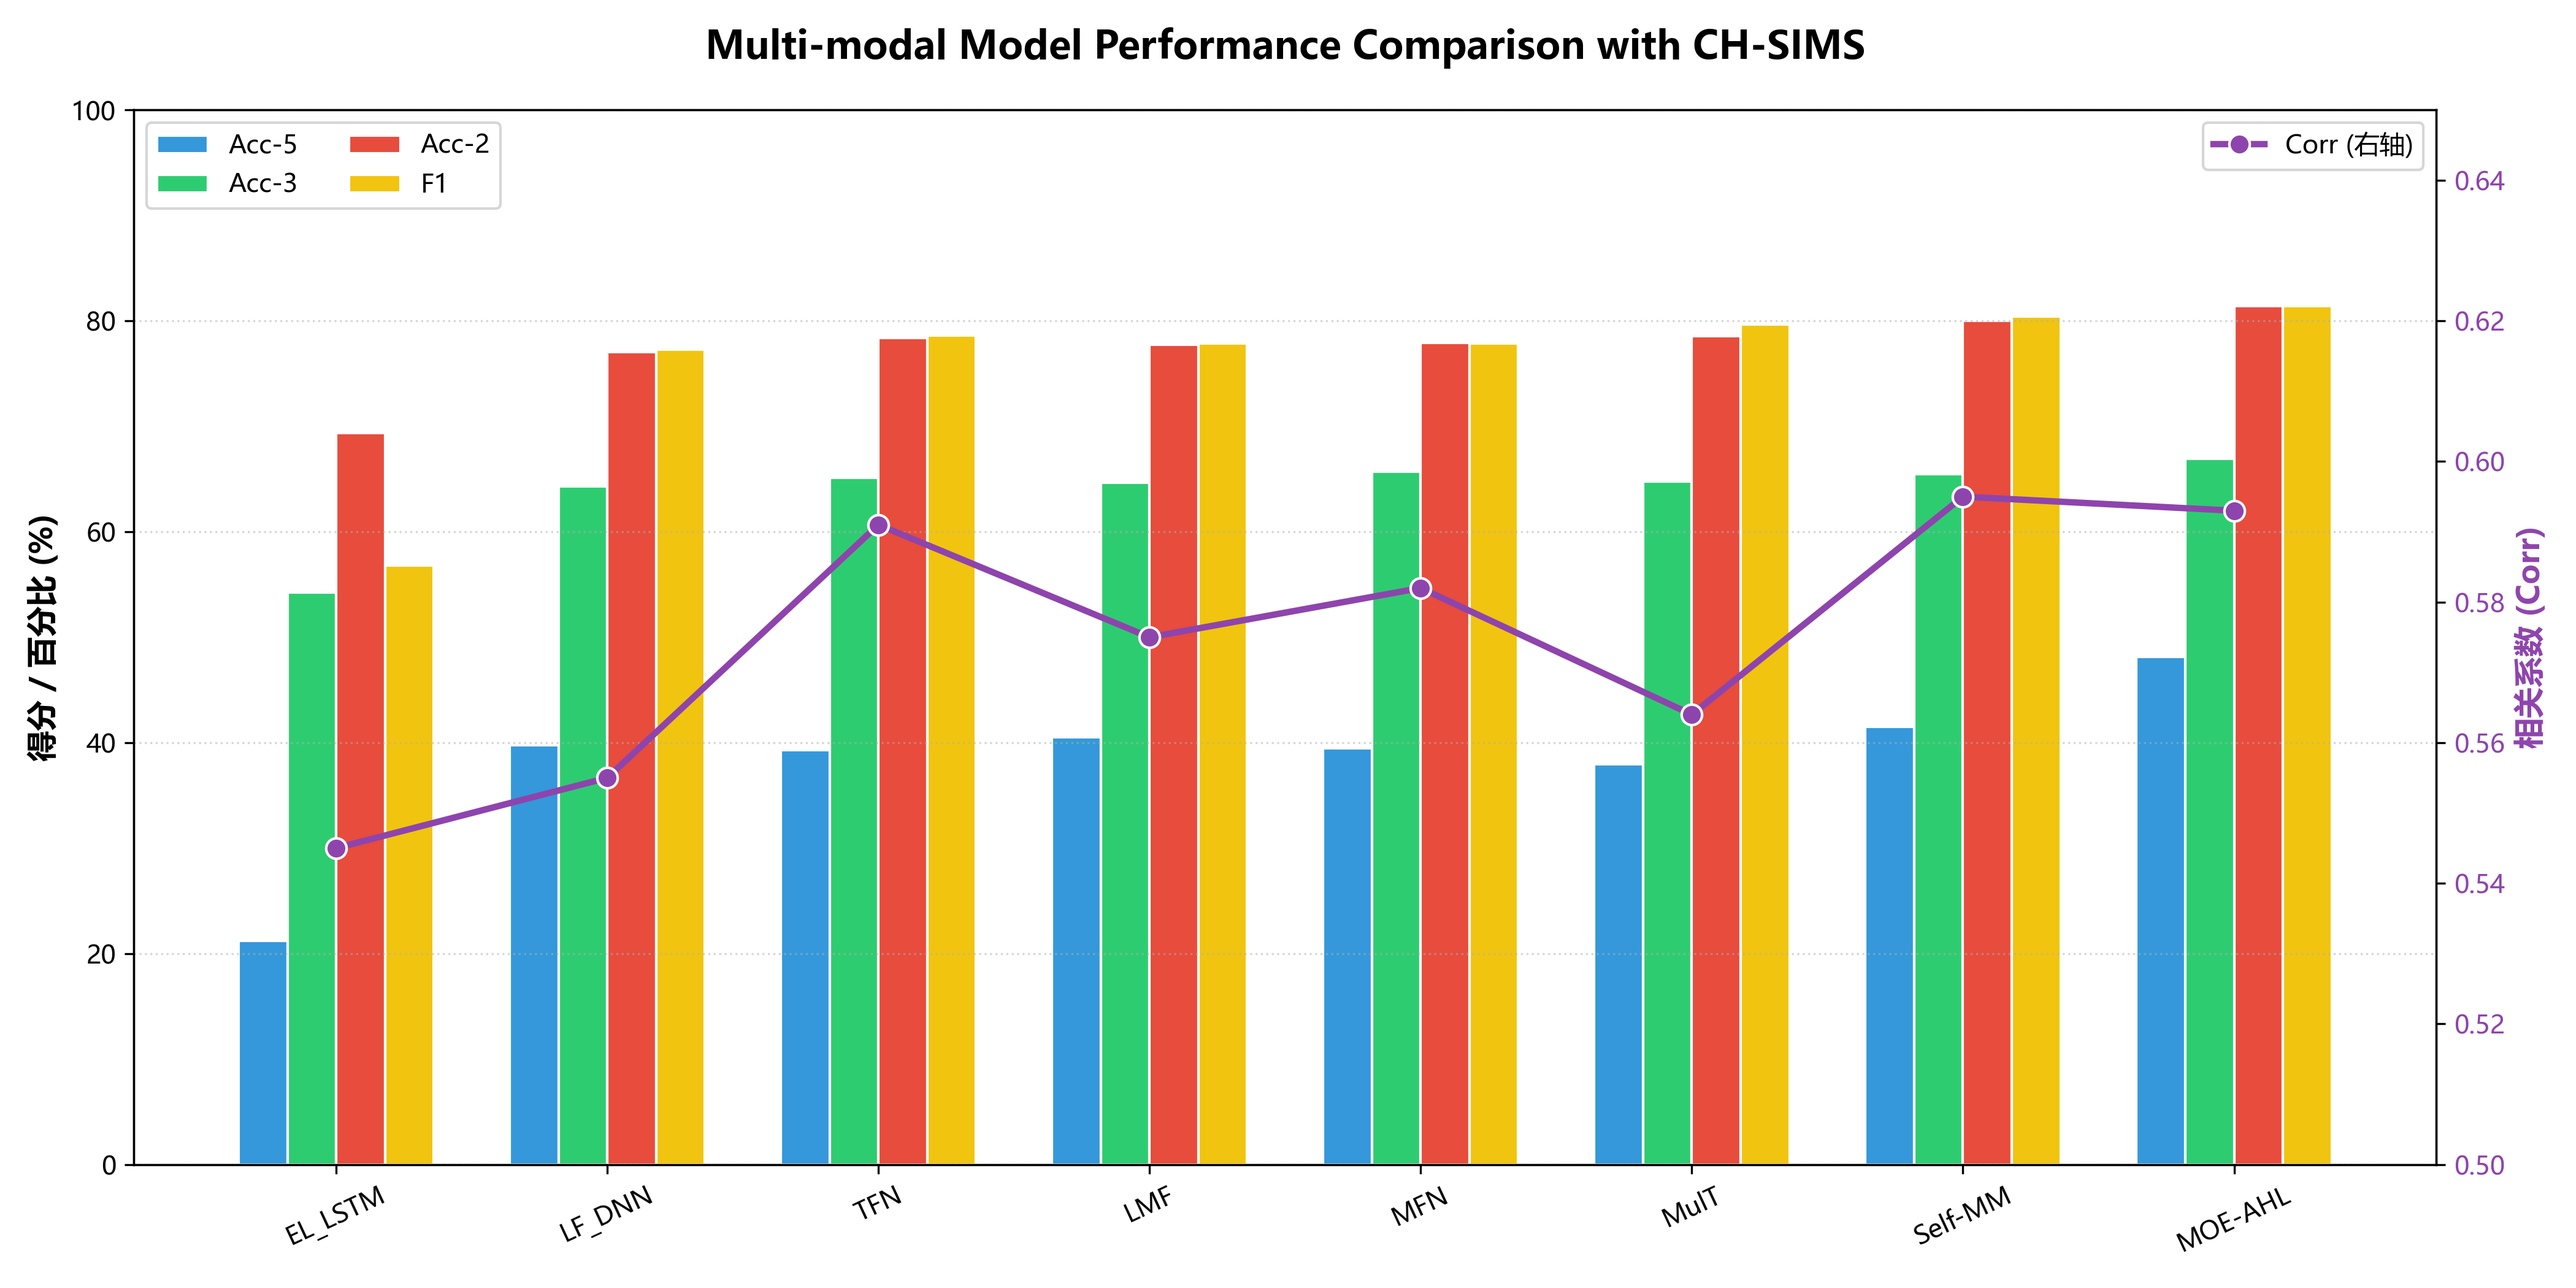
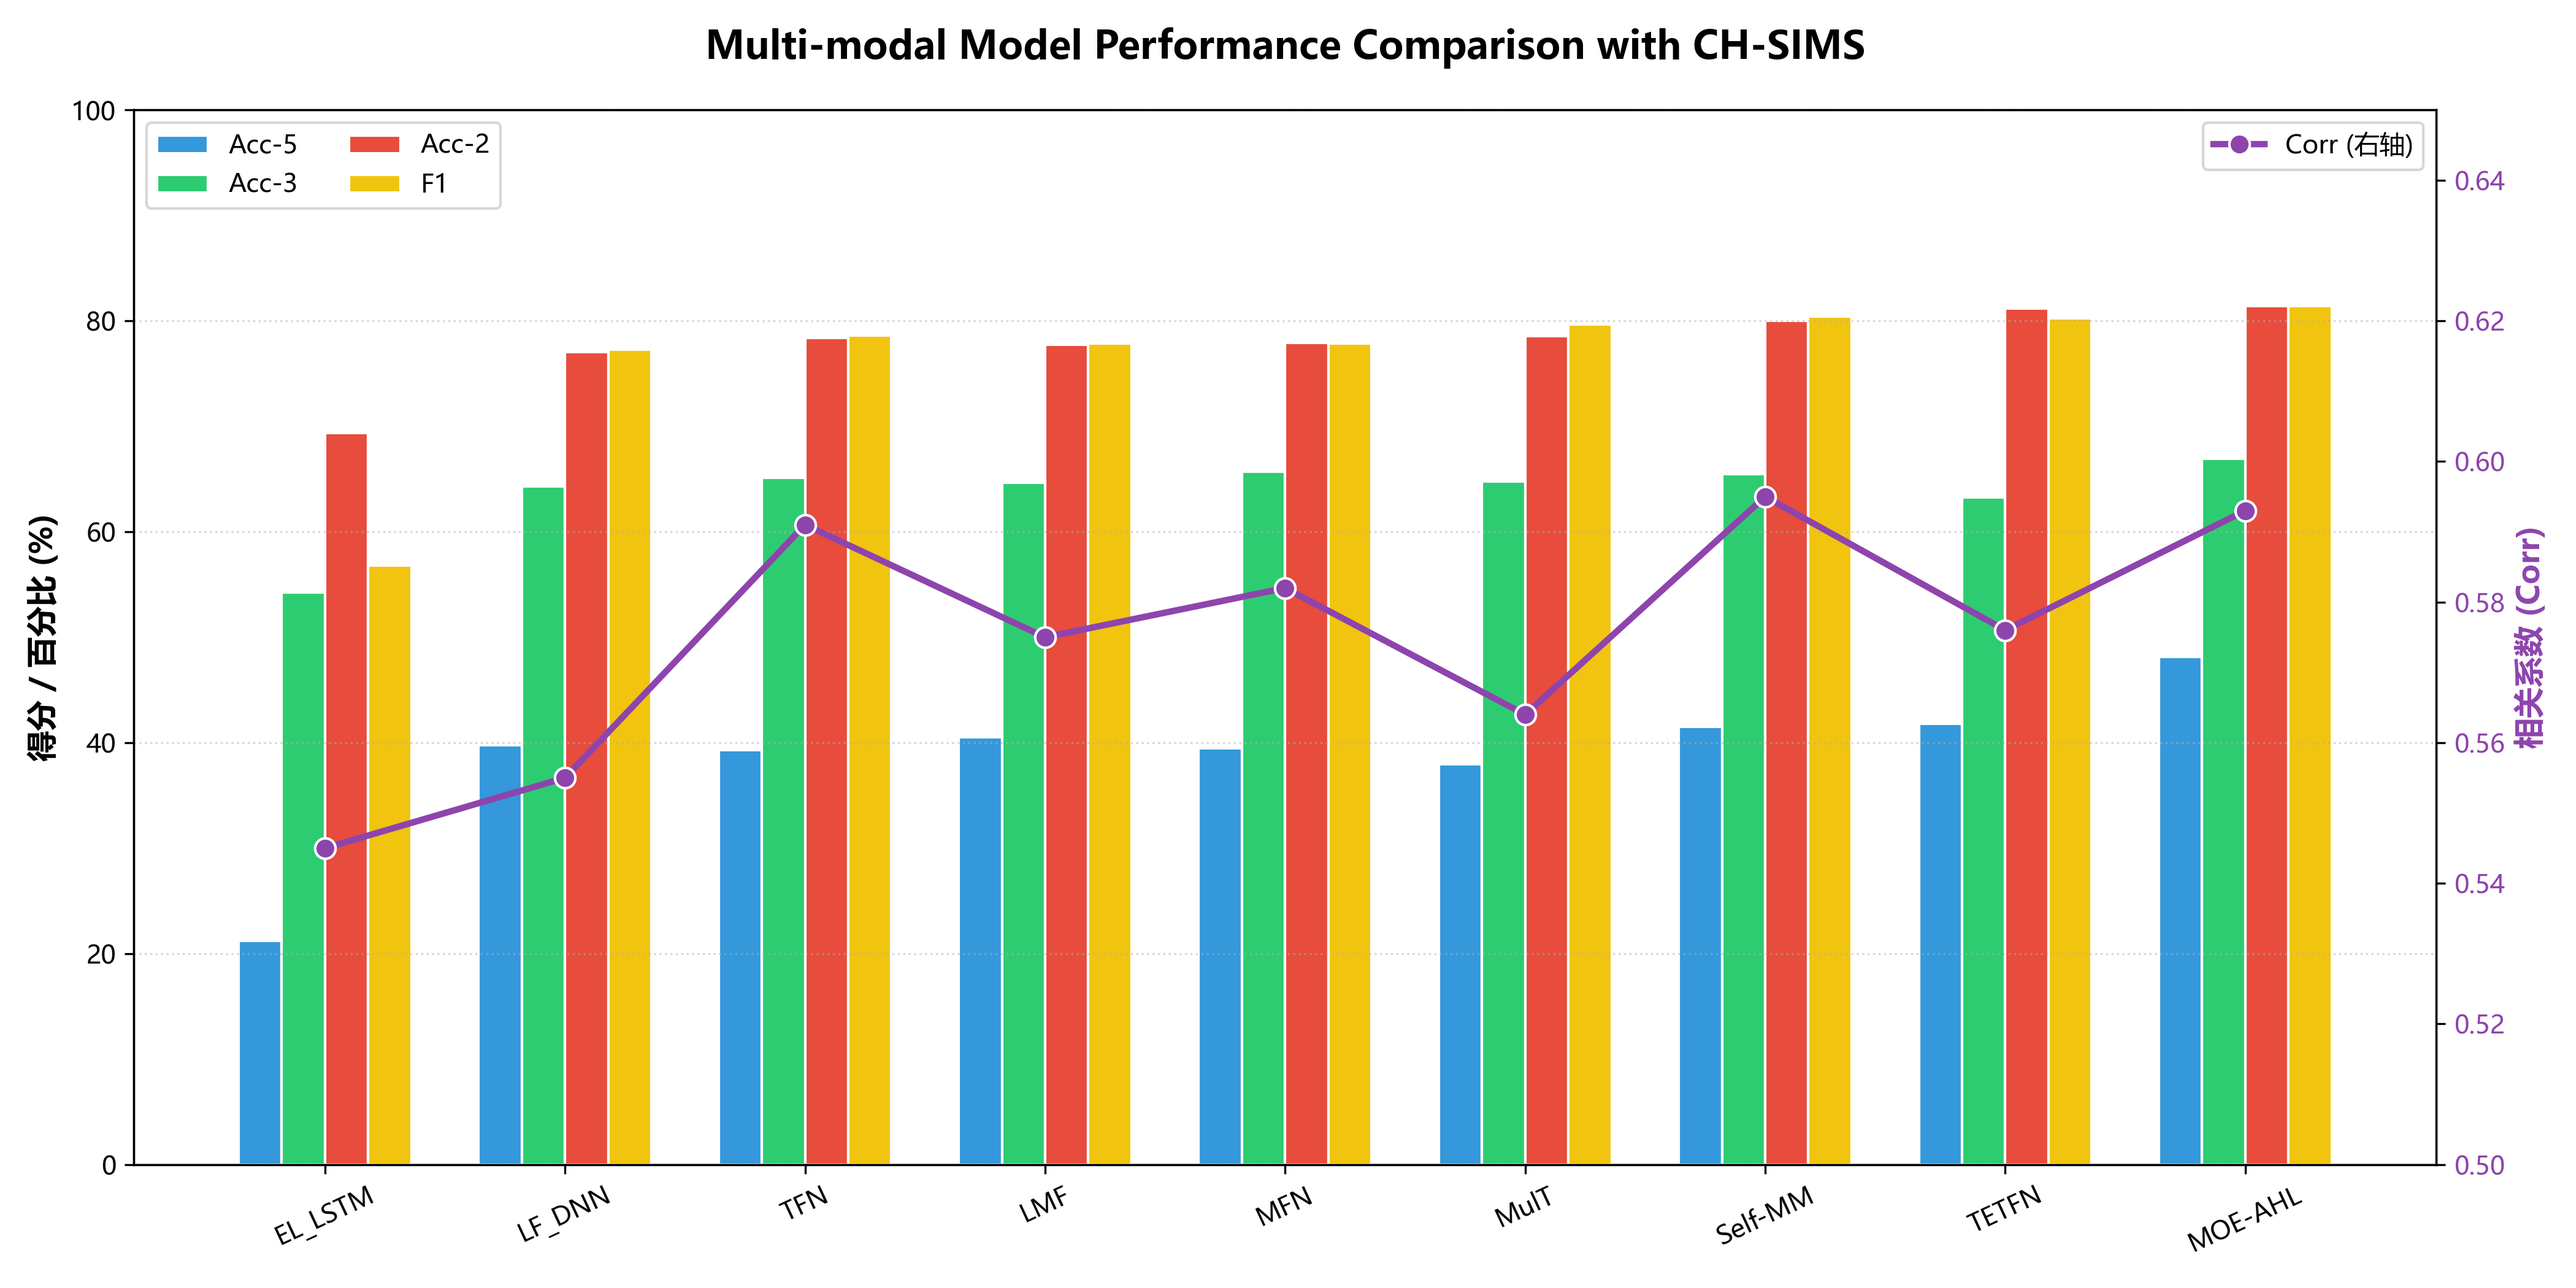
画图提交

diff --git a/plot/sims.py b/plot/sims.py
@@ -20,12 +20,12 @@ set_ch_font()
 
 # --- 2. 准备新数据 ---
 data = {
-    'Model': ['EL_LSTM', 'LF_DNN', 'TFN', 'LMF', 'MFN', 'MulT', 'Self-MM', 'MOE-AHL'],
-    'Acc-5': [21.23, 39.74, 39.30, 40.53, 39.47, 37.94, 41.53, 48.14],
-    'Acc-3': [54.27, 64.33, 65.12, 64.68, 65.73, 64.77, 65.47, 66.95],
-    'Acc-2': [69.37, 77.02, 78.38, 77.77, 77.9, 78.56, 80.04, 81.40],
-    'F1': [56.82, 77.27, 78.62, 77.88, 77.88, 79.66, 80.44, 81.41],
-    'Corr': [0.545, 0.555, 0.591, 0.575, 0.582, 0.564, 0.595, 0.593]
+    'Model': ['EL_LSTM', 'LF_DNN', 'TFN', 'LMF', 'MFN', 'MulT', 'Self-MM', 'TETFN', 'MOE-AHL'],
+    'Acc-5': [21.23, 39.74, 39.30, 40.53, 39.47, 37.94, 41.53, 41.79, 48.14],
+    'Acc-3': [54.27, 64.33, 65.12, 64.68, 65.73, 64.77, 65.47, 63.24, 66.95],
+    'Acc-2': [69.37, 77.02, 78.38, 77.77, 77.9, 78.56, 80.04, 81.18, 81.40],
+    'F1': [56.82, 77.27, 78.62, 77.88, 77.88, 79.66, 80.44, 80.24, 81.41],
+    'Corr': [0.545, 0.555, 0.591, 0.575, 0.582, 0.564, 0.595, 0.576, 0.593]
 }
 
 df = pd.DataFrame(data)
